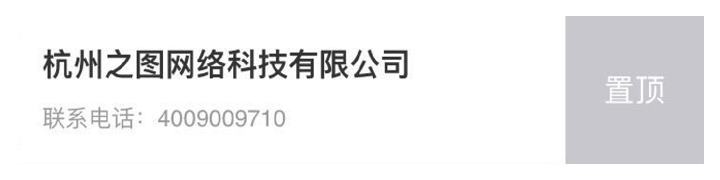
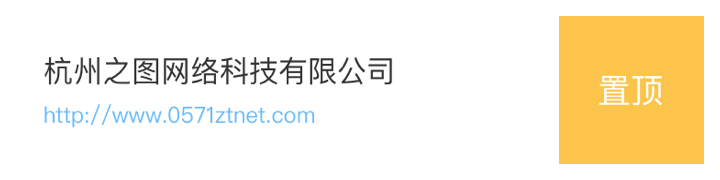
【园区企业】置顶更改

Changed region(s): [[0.7639, 0.0833, 0.9778, 0.9167], [0.0611, 0.2778, 0.5806, 0.4722], [0.0611, 0.5833, 0.4583, 0.7222]]

diff --git a/application/index/view/enterprise/index.html b/application/index/view/enterprise/index.html
@@ -31,24 +31,25 @@
     .searchList{min-height:100vh;width:100%;position:absolute;top:0;left:0;z-index: 120}
     .searchList.company-list{padding:0}
     .searchList.company-list>li{margin-bottom:0;}
-    .searchList.company-list .li-content {border-bottom:1px solid #f1f1f1}
+    /*.searchList.company-list .li-content {border-bottom:1px solid #f1f1f1}*/
     .searchList.bgWhite{background-color:rgba(255,255,255,1)}
     .searchList>li:first-child{margin-top:4.8rem}
     .list-position{
-        position:relative;top:0;left:0;padding:5.2rem 2.133vw .4rem 2.133vw;
+        position:relative;top:0;left:0;padding:4.8rem 0 .4rem 0;
         width:100%;
         box-sizing:border-box;
+        background-color: #fff;
     }
     .company-list{box-sizing:border-box;width:100%;}
-    .company-list .li-content{box-sizing:border-box;width:100%;padding:.8rem 3.7333333vw;display:-webkit-flex;display:flex;background-color:#fff}
+    .company-list .li-content{box-sizing:border-box;width:100%;padding:.8rem 3.7333333vw;display:-webkit-flex;display:flex;background-color:#fff;border-bottom: 1px solid #e8e8e8}
     .company-list-bg{display:none;margin:0;padding:0;min-height:100vh;width:100%;background-color:rgba(0,0,0,.5);position:fixed;top:0;left:0;z-index: 121}
     .company-logo>img{text-align:center;line-height:59px;display:block;width:59px;height:59px;border-radius:3px}
     .company-list .company-logo{margin-right:1.4rem}
     .company-info{
         position: relative;
     }
-    .company-info>li{width:65vw;line-height:2;white-space:nowrap;overflow:hidden;text-overflow:ellipsis}
-    .company-info>li:first-child{font-size:1.6rem;font-weight:700;color:#333}
+    .company-info>li{width:68vw;line-height:2;white-space:nowrap;overflow:hidden;text-overflow:ellipsis}
+    .company-info>li:first-child{font-size:1.6rem;color:#333}
     .company-info>li.company-info-mobile{font-size:1.2rem;color:#999}
     .hidden{display:none}
     .overflow{height:100vh;overflow:hidden}
@@ -139,7 +140,7 @@
     .mint-cell{
         height:100%;
         background-color: inherit;
-        margin-bottom: .8rem;
+        padding-left: 2.4vw;
     }
     .searchList .mint-cell{
         margin-bottom: 0;
@@ -217,8 +218,7 @@
                             </div>
                             <ul class="company-info">
                                 <li>{{item.name}}</li>
-                                <li class="company-info-mobile" v-if="item.mobile">联系电话：{{item.mobile}}</li>
-                                <li class="company-info-mobile" v-else>联系电话：暂无</li>
+                                <li class="company-info-mobile" v-if="item.site">{{hidProtocol(item.site)}}</li>
                                 <li class="my-icon-flag my-icon-hot">置顶</li>
                             </ul>
                         </div>
@@ -228,7 +228,7 @@
             <ul class="company-list">
                 <li v-for="item in noTopList">
                     <mt-cell-swipe
-                            :right="[{content: '置顶',style: {  background: '#C8C7CD', color: '#fff' ,fontSize:'1.6rem' },handler: () => toggleTop(true,item.id)}]">
+                            :right="[{content: '置顶',style: {  background: '#FCC44B', color: '#fff' ,fontSize:'1.6rem' },handler: () => toggleTop(true,item.id)}]">
                         <div class="li-content"  @click="jumpTo(item.id)">
                             <div class="company-logo">
                                 <img :src="item.img" alt="logo" v-if="item.img">
@@ -236,8 +236,7 @@
                             </div>
                             <ul class="company-info">
                                 <li>{{item.name}}</li>
-                                <li v-if="item.mobile" class="company-info-mobile">联系电话：{{item.mobile}}</li>
-                                <li class="company-info-mobile" v-else>联系电话：暂无</li>
+                                <li v-if="item.site" class="company-info-mobile">{{hidProtocol(item.site)}}</li>
                             </ul>
                         </div>
                     </mt-cell-swipe>
@@ -259,8 +258,7 @@
                         </div>
                         <ul class="company-info">
                             <li>{{item.name}}</li>
-                            <li class="company-info-mobile" v-if="item.mobile">联系电话：{{item.mobile}}</li>
-                            <li class="company-info-mobile" v-else>联系电话：暂无</li>
+                            <li class="company-info-mobile" v-if="item.site">{{hidProtocol(item.site)}}</li>
                             <li class="my-icon-flag my-icon-hot">置顶</li>
                         </ul>
                     </div>
@@ -268,7 +266,7 @@
             </li>
             <li v-for="item in searchNoTopList">
                 <mt-cell-swipe
-                        :right="[{content: '置顶',style: {  background: '#C8C7CD', color: '#fff' ,fontSize:'1.6rem' },handler: () => toggleTop(true,item.id)}]">
+                        :right="[{content: '置顶',style: {  background: '#FCC44B', color: '#fff' ,fontSize:'1.6rem' },handler: () => toggleTop(true,item.id)}]">
                     <div class="li-content"  @click="jumpTo(item.id)">
                         <div class="company-logo">
                             <img :src="item.img" alt="logo" v-if="item.img">
@@ -276,8 +274,7 @@
                         </div>
                         <ul class="company-info">
                             <li>{{item.name}}</li>
-                            <li v-if="item.mobile" class="company-info-mobile">联系电话：{{item.mobile}}</li>
-                            <li class="company-info-mobile" v-else>联系电话：暂无</li>
+                            <li v-if="item.site" class="company-info-mobile">{{hidProtocol(item.site)}}</li>
                         </ul>
                     </div>
                 </mt-cell-swipe>
@@ -412,7 +409,6 @@
         mounted(){
             var _this = this;
             var canShowGuide = window.localStorage.getItem('canShowGuide');
-            console.log(canShowGuide)
             if(canShowGuide===null){
                 window.localStorage.setItem('canShowGuide','no');
                 this.isShowGuide=true
@@ -538,6 +534,16 @@
             }
         },
         methods:{
+            hidProtocol(url){
+                var url = url || '',
+                        start=url.indexOf('://');
+                if(start !== -1){
+                    url = url.substring(start+3,url.length);
+                    return url;
+                }else{
+                    return url;
+                }
+            },
             toggleTop(isTop,id){
                 var _this = this;
                 this.isFocus = false;
@@ -557,7 +563,6 @@
                     spinnerType: 'triple-bounce'
                 });
                 _this.$http.post("{:Url('Enterprise/editTopCompany')}",data).then(function (res) {
-                    console.log(res)
                     _this.isSubmit = false;
                     _this.$indicator.close();
                     if(res.data.code===1){
@@ -582,7 +587,6 @@
                         });
                     }
                 },function (res){
-                    console.log(res)
                     _this.isSubmit = false;
                     _this.$indicator.close();
                     _this.$toast({
